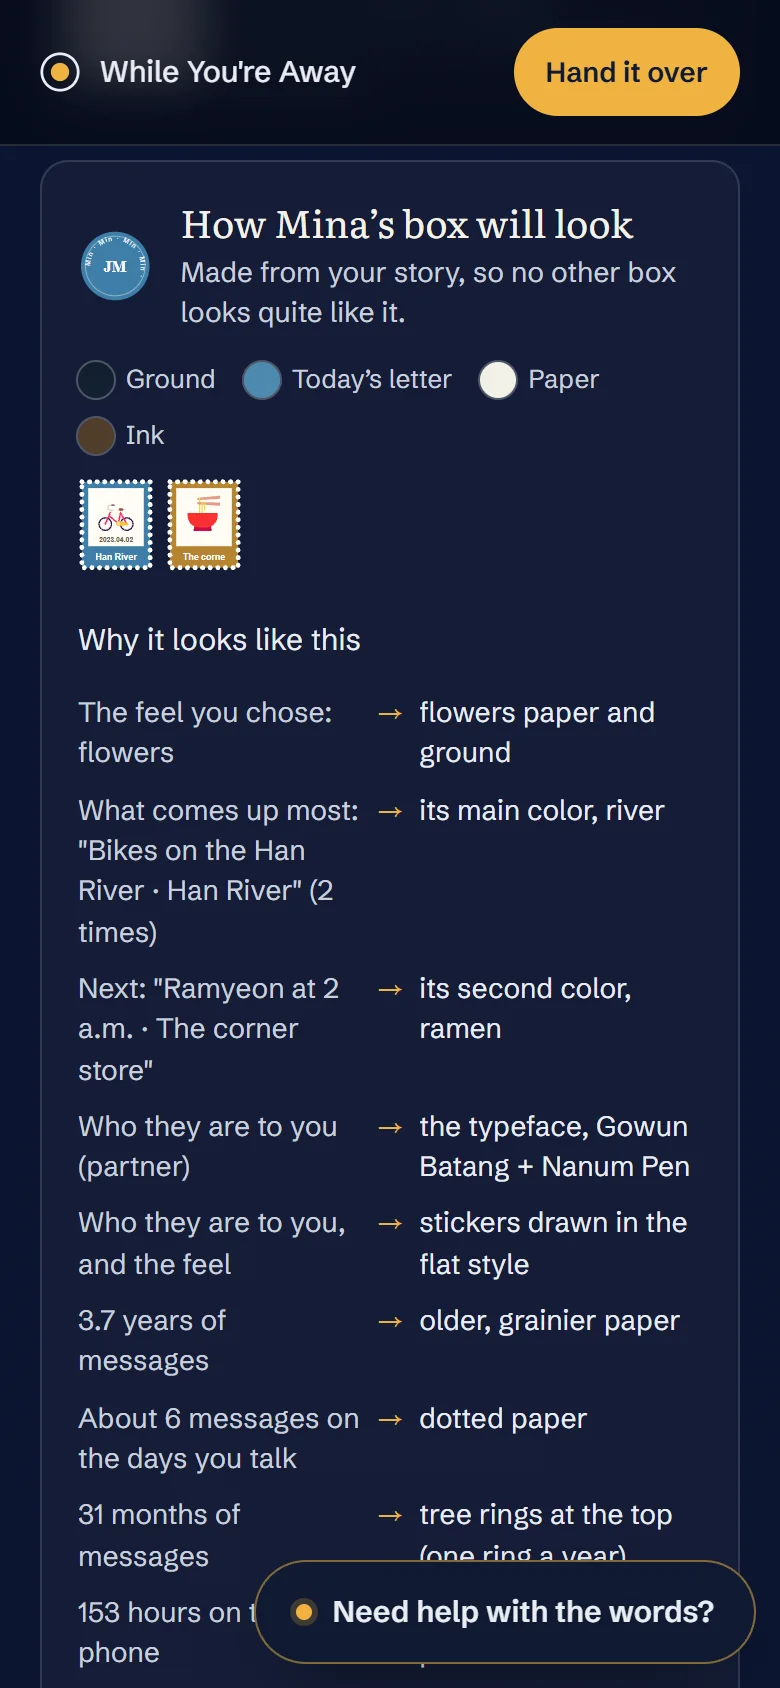
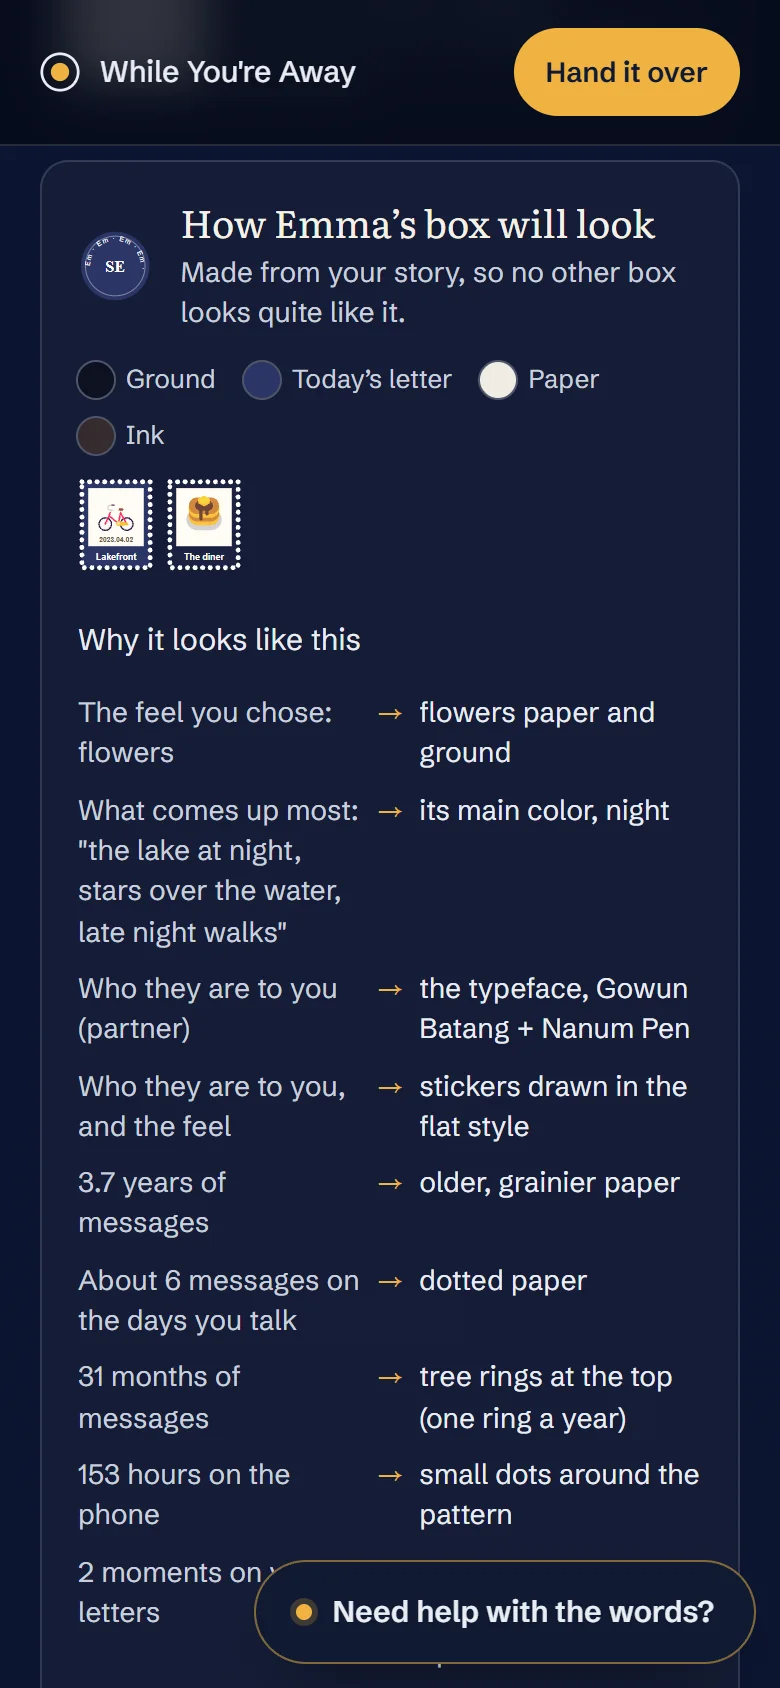
Demo story goes American: Sam writes to Emma, from Chicago
The made-up letter box on the site and in the product screenshots now
follows Sam and Emma (Lakefront Trail, pancakes at 2 a.m., O'Hare,
Emma's semester in Lisbon) instead of Jae and Mina in Seoul. All nine
screenshots are recaptured, and the Han River photo is replaced by
the Lakefront Trail by Oak Street Beach (Chris Rycroft, CC BY 2.0),
credited in the footer and credits.json.

diff --git a/src/pages/site/Scenes.jsx b/src/pages/site/Scenes.jsx
@@ -63,16 +63,16 @@ export const Phone = forwardRef(function Phone({ children, className = '' }, ref
 /* Bits of one made-up couple's story, flowing through the card like the bubbles on a live service page. */
 const BUBBLES = [
   [
-    { text: 'Bikes on the Han River', meta: 'a moment · Apr 2, 2023' },
+    { text: 'Bikes on the Lakefront Trail', meta: 'a moment · Apr 2, 2023' },
     { text: '“Text me when you’re home”', meta: 'something she always says', tone: 'say' },
     { text: 'The night the power went out', meta: 'a moment · Aug 17, 2024' },
     { text: '4:12 a.m.', meta: 'the latest they stayed up talking', tone: 'num' },
-    { text: 'Ramyeon at 2 a.m.', meta: 'a moment · the corner store' },
+    { text: 'Pancakes at 2 a.m.', meta: 'a moment · the diner on Clark' },
   ],
   [
     { text: '“Did you eat?”', meta: 'something he always says', tone: 'say' },
     { text: 'Lisbon, January 8', meta: 'a goodbye before this one', tone: 'bye' },
-    { text: 'Her first snow in Seoul', meta: 'a moment · Dec 21, 2024' },
+    { text: 'Her first snow in Chicago', meta: 'a moment · Dec 21, 2024' },
     { text: '153 hours', meta: 'on the phone, over 412 calls', tone: 'num' },
     { text: '“did you get home okay?”', meta: 'the very first message', tone: 'say' },
   ],
@@ -133,7 +133,7 @@ const FLOW = [
     shot: 'plan',
     title: 'Tell the guide about the two of you.',
     body: 'Sign in and talk it through: why you’re apart, how often you’ll talk, what’s only yours. It suggests the letters and when each one opens. You decide what stays.',
-    alt: 'The planning conversation: the guide asks how often Jae and Mina will talk, and picks up on a phrase they always say.',
+    alt: 'The planning conversation: the guide asks how often Sam and Emma will talk, and picks up on a phrase they always say.',
   },
   {
     shot: 'chats',
@@ -145,13 +145,13 @@ const FLOW = [
     shot: 'findings',
     title: 'Write, with what you found beside you.',
     body: 'Moments, the things you always say, the goodbyes before this one. Start a letter from any of them, or pin one beside your words. The words are yours; nothing writes them for you.',
-    alt: 'What was found in their chats: Bikes on the Han River, Ramyeon at 2 a.m., The night the power went out, each with a question to start from.',
+    alt: 'What was found in their chats: Bikes on the Lakefront Trail, Pancakes at 2 a.m., The night the power went out, each with a question to start from.',
   },
   {
     shot: 'letter',
     title: 'The paper is made from your story.',
     body: 'The river you keep mentioning tints the box. The years you’ve talked age the paper. Short notes come out in a hand, long ones in a face that’s easy to read on a phone.',
-    alt: 'A letter titled Bikes on the Han River on dotted, lightly aged paper, in handwriting, signed Jae.',
+    alt: 'A letter titled Bikes on the Lakefront Trail on dotted, lightly aged paper, in handwriting, signed Sam.',
   },
   {
     shot: 'handover',
@@ -203,7 +203,7 @@ export function Flow() {
 }
 
 const WORDS = [
-  { word: 'Services', to: '/services', label: 'What’s in a letter box', line: 'Seven kinds of letter, paper made from your story, and what $9.99 covers.', img: '/site/han-river-night.jpg', alt: 'Bicycles along the Han River at night.' },
+  { word: 'Services', to: '/services', label: 'What’s in a letter box', line: 'Seven kinds of letter, paper made from your story, and what $9.99 covers.', img: '/site/lakefront-trail.jpg', alt: 'A bike path along a lake beach, with the city behind it.' },
   { word: 'About', to: '/about', label: 'Why this exists', line: 'The letters Jin wrote through his own goodbyes, and why the words stay yours.', img: '/site/platform-dusk.jpg', alt: 'A train platform at dusk.' },
   { word: 'Contact', to: '/contact', label: 'Ask us anything', line: 'A question before you start, or help after. A person reads every message.', img: '/site/letter-1864.jpg', alt: 'An old handwritten letter.' },
 ]

diff --git a/src/pages/site/Fragments.jsx b/src/pages/site/Fragments.jsx
@@ -4,7 +4,7 @@ import { PHOTO, decorFor } from './paper'
 /*
  * Pieces of the real product, rendered by the app's own components rather than pictured:
  * the counselor conversation, the letter paper it composes, and the recipient's letter box.
- * The story in them (Jae writing to Mina) is illustrative.
+ * The story in them (Sam writing to Emma) is illustrative.
  */
 
 const WAVE = [6, 12, 18, 10, 22, 14, 8, 16, 24, 12, 6, 14, 20, 10, 16, 8, 12, 18, 6, 10]
@@ -14,9 +14,9 @@ export function ChatFragment({ compact = false }) {
     <div className={compact ? "frag frag-chat frag--compact" : "frag frag-chat"} data-ui>
       <p className="fc-head">Planning your letter box</p>
       <p className="fc-msg fc-msg--ai">Tell me about the two of you. Where did it start? A place, a date, a photo, anything.</p>
-      <p className="fc-msg fc-msg--me">Han River, April 2. We rented bikes and got lost on purpose.</p>
+      <p className="fc-msg fc-msg--me">The Lakefront Trail, April 2. We rented bikes and took the long way on purpose.</p>
       <figure className="fc-msg fc-msg--me fc-photo">
-        <img src={PHOTO} alt="Two rental bikes by the Han River at night" width="1200" height="800" loading="lazy" />
+        <img src={PHOTO} alt="The bike path along the lake, with the beach on one side and the city on the other" width="1280" height="800" loading="lazy" />
       </figure>
       <div className="fc-msg fc-msg--me fc-voice" role="img" aria-label="A voice note, 42 seconds">
         <span className="fc-play" aria-hidden="true"><svg viewBox="0 0 12 12" width="12" height="12"><path d="M3 1.5v9l7.5-4.5z" fill="currentColor" /></svg></span>
@@ -25,7 +25,7 @@ export function ChatFragment({ compact = false }) {
         </svg>
         <span>0:42</span>
       </div>
-      <p className="fc-msg fc-msg--ai">That night goes on her first letter: the river, the bikes, and a postmark from April 2.</p>
+      <p className="fc-msg fc-msg--ai">That day goes on her first letter: the lake, the bikes, and a postmark from April 2.</p>
     </div>
   )
 }
@@ -39,7 +39,7 @@ export function PaperFragment({ style = 'night', dressed = true, body = 'Your wo
         meta={meta}
         letter={body}
         photoUrl={photo && dressed ? PHOTO : undefined}
-        fromName="Jae"
+        fromName="Sam"
         showPostmark={dressed}
         isTicket={ticket && dressed}
         textSizeControl={false}
@@ -60,8 +60,8 @@ const ROWS = [
 export function BoxFragment({ compact = false }) {
   return (
     <div className={`frag frag-box${compact ? ' frag--compact' : ''}`} data-ui>
-      <p className="fb-from">From Jae</p>
-      <p className="fb-name">Mina’s letter box</p>
+      <p className="fb-from">From Sam</p>
+      <p className="fb-name">Emma’s letter box</p>
       <p className="fb-count"><span aria-hidden="true" />A new letter today</p>
       <ul>
         {ROWS.map((r) => (

diff --git a/src/pages/site/SiteLayout.jsx b/src/pages/site/SiteLayout.jsx
@@ -107,7 +107,7 @@ export default function SiteLayout({ children, cinematic = false, background = n
           Pictures: <a href="https://commons.wikimedia.org/wiki/File:Toyama_Station_platform_at_dusk_2015-03-13.jpg">“Toyama Station platform at dusk”</a> by squeuei, <a href="https://creativecommons.org/licenses/by/2.0">CC BY 2.0</a>;{" "}
           <a href="https://commons.wikimedia.org/wiki/File:Sunset_and_stars_over_St%C3%A5ngehuvud.jpg">“Sunset and stars over Stångehuvud”</a> by W.carter, <a href="https://creativecommons.org/publicdomain/zero/1.0/deed.en">CC0</a>;{" "}
           <a href="https://commons.wikimedia.org/wiki/File:Handwritten_Letter_to_D._H._Cook_from_Carolina_Cook_-_DPLA_-_56162c270f60b61e1a3ee47c3f7b5a3f_(page_1).jpg">“Handwritten Letter to D. H. Cook from Carolina Cook”</a>, public domain;{" "}
-          <a href="https://commons.wikimedia.org/wiki/File:Bicycles_along_Han_River_at_night_20240430191634.jpg">“Bicycles along Han River at night”</a> by TurnOnTheNight, <a href="https://creativecommons.org/licenses/by-sa/4.0">CC BY-SA 4.0</a>. All via Wikimedia Commons.
+          <a href="https://commons.wikimedia.org/wiki/File:Chicago_in_2022_Lakefront_Trail_by_Oak_Street_Beach_and_Lake_Michigan_(52054928480).jpg">“Lakefront Trail by Oak Street Beach and Lake Michigan”</a> by Chris Rycroft, <a href="https://creativecommons.org/licenses/by/2.0">CC BY 2.0</a>. All via Wikimedia Commons.
         </p>
       </footer>
     </div>

diff --git a/src/pages/site/paper.js b/src/pages/site/paper.js
@@ -1,7 +1,7 @@
-// The demo story the site's product fragments show (Jae writing to Mina). Illustrative.
+// The demo story the site's product fragments show (Sam writing to Emma). Illustrative.
 import { STYLES } from '../../utils/decor'
 
-export const PHOTO = '/site/han-river-night.jpg'
+export const PHOTO = '/site/lakefront-trail.jpg'
 export const PAPER_STYLES = Object.entries(STYLES).map(([id, s]) => ({ id, name: s.name }))
 
 export function decorFor(style = 'night', dressed = true) {
@@ -9,8 +9,8 @@ export function decorFor(style = 'night', dressed = true) {
   return {
     style,
     motifs: [{ id: 'bicycle' }, { id: 'crescent-moon' }],
-    postmark: { place: 'Han River', date: '2023-04-02' },
-    ticket: { kind: 'bus', title: 'Open when you miss me', line: 'Two stops, then the river.' },
+    postmark: { place: 'Lakefront Trail', date: '2023-04-02' },
+    ticket: { kind: 'bus', title: 'Open when you miss me', line: 'Two stops, then the lake.' },
     tape: true,
   }
 }

diff --git a/src/pages/box/demoBox.js b/src/pages/box/demoBox.js
@@ -56,7 +56,7 @@ export function demoBox(token = 'demo') {
     return isOpen ? { ...it, open: true, letter: LETTER, empty: false } : { ...it, open: false }
   })
 
-  const photo = { d1: '/site/han-river-night.jpg', t0: '/site/platform-dusk.jpg', w1: '/site/sunset-stars.jpg', n1: '/site/letter-1864.jpg' }
+  const photo = { d1: '/site/lakefront-trail.jpg', t0: '/site/platform-dusk.jpg', w1: '/site/sunset-stars.jpg', n1: '/site/letter-1864.jpg' }
   for (const it of items) if (it.open && photo[it.id]) it.photo = { url: photo[it.id], key: null }
 
   const opened = fresh ? [] : long ? [...before.map((b) => b.id), 't0', ...scheduled.slice(0, 28).map((w) => w.id), 'n1', 's0'] : ['d:0', 'd:1', 'd:2', 't0', 'w0', 'n1', 's0']

diff --git a/src/pages/site/About.jsx b/src/pages/site/About.jsx
@@ -31,7 +31,7 @@ export default function About() {
         </div>
         <figure className="ab-shot" data-rise>
           <PaperFragment title="Week four" meta="While we’re apart · opened today" body="If you’re reading this, you’ve already done the hardest part once. I keep thinking about the bus stop, and how you said the rain was the reason your eyes were wet." />
-          <figcaption>A letter from Jae to Mina, on paper made from their story.</figcaption>
+          <figcaption>A letter from Sam to Emma, on paper made from their story.</figcaption>
         </figure>
       </section>
 
